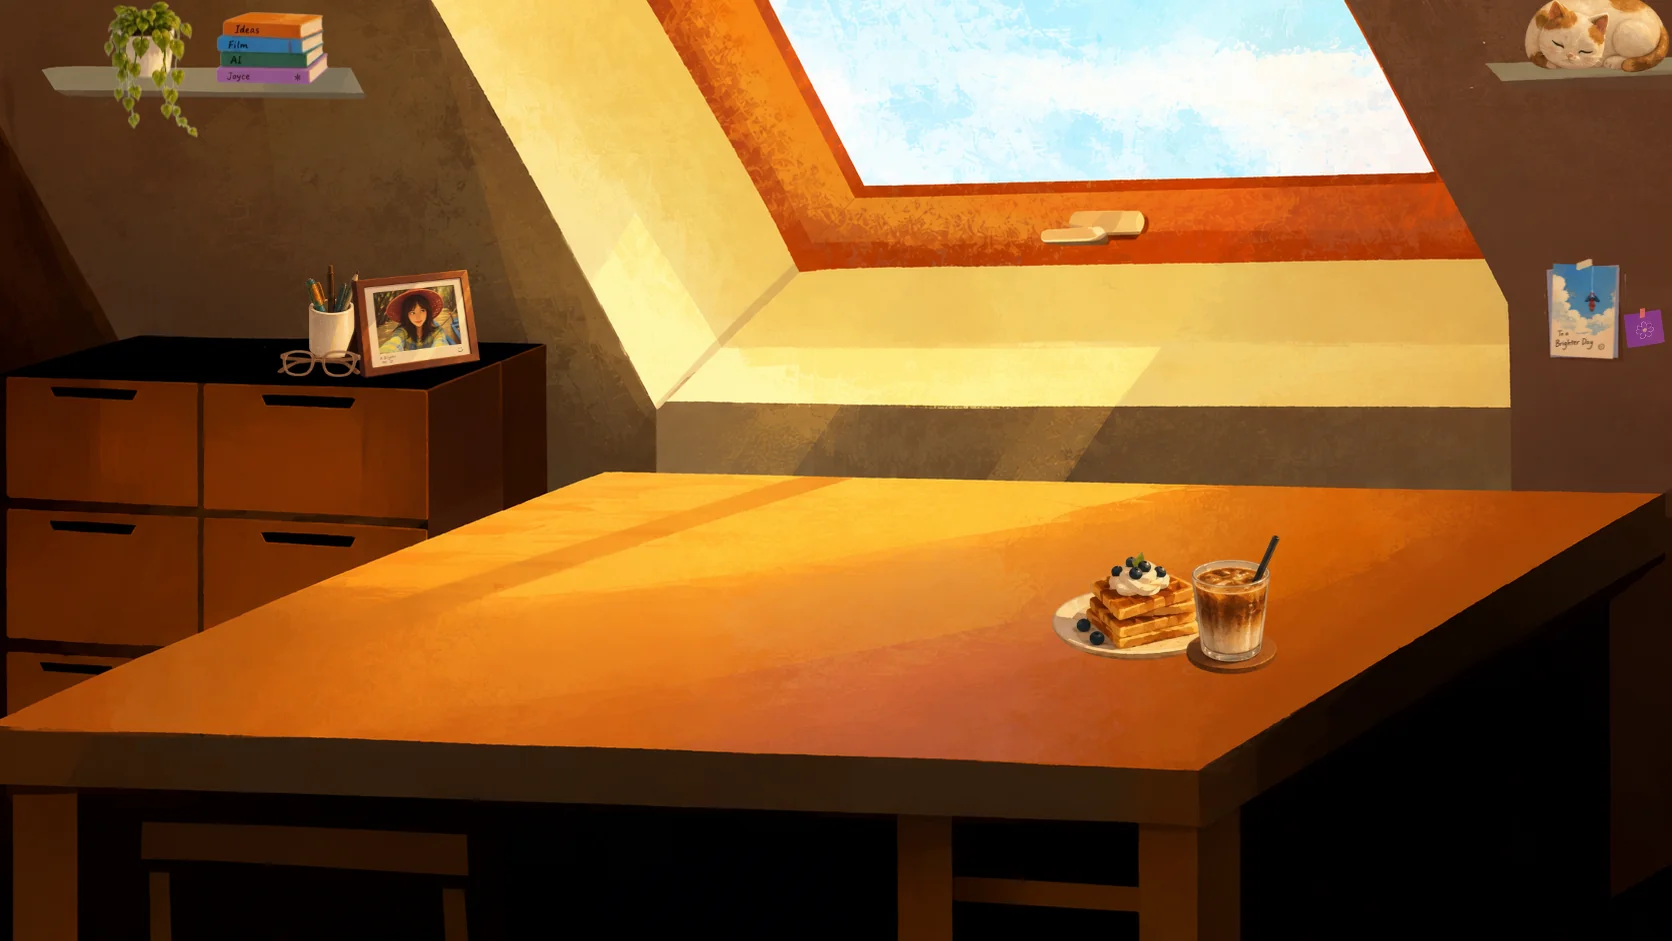
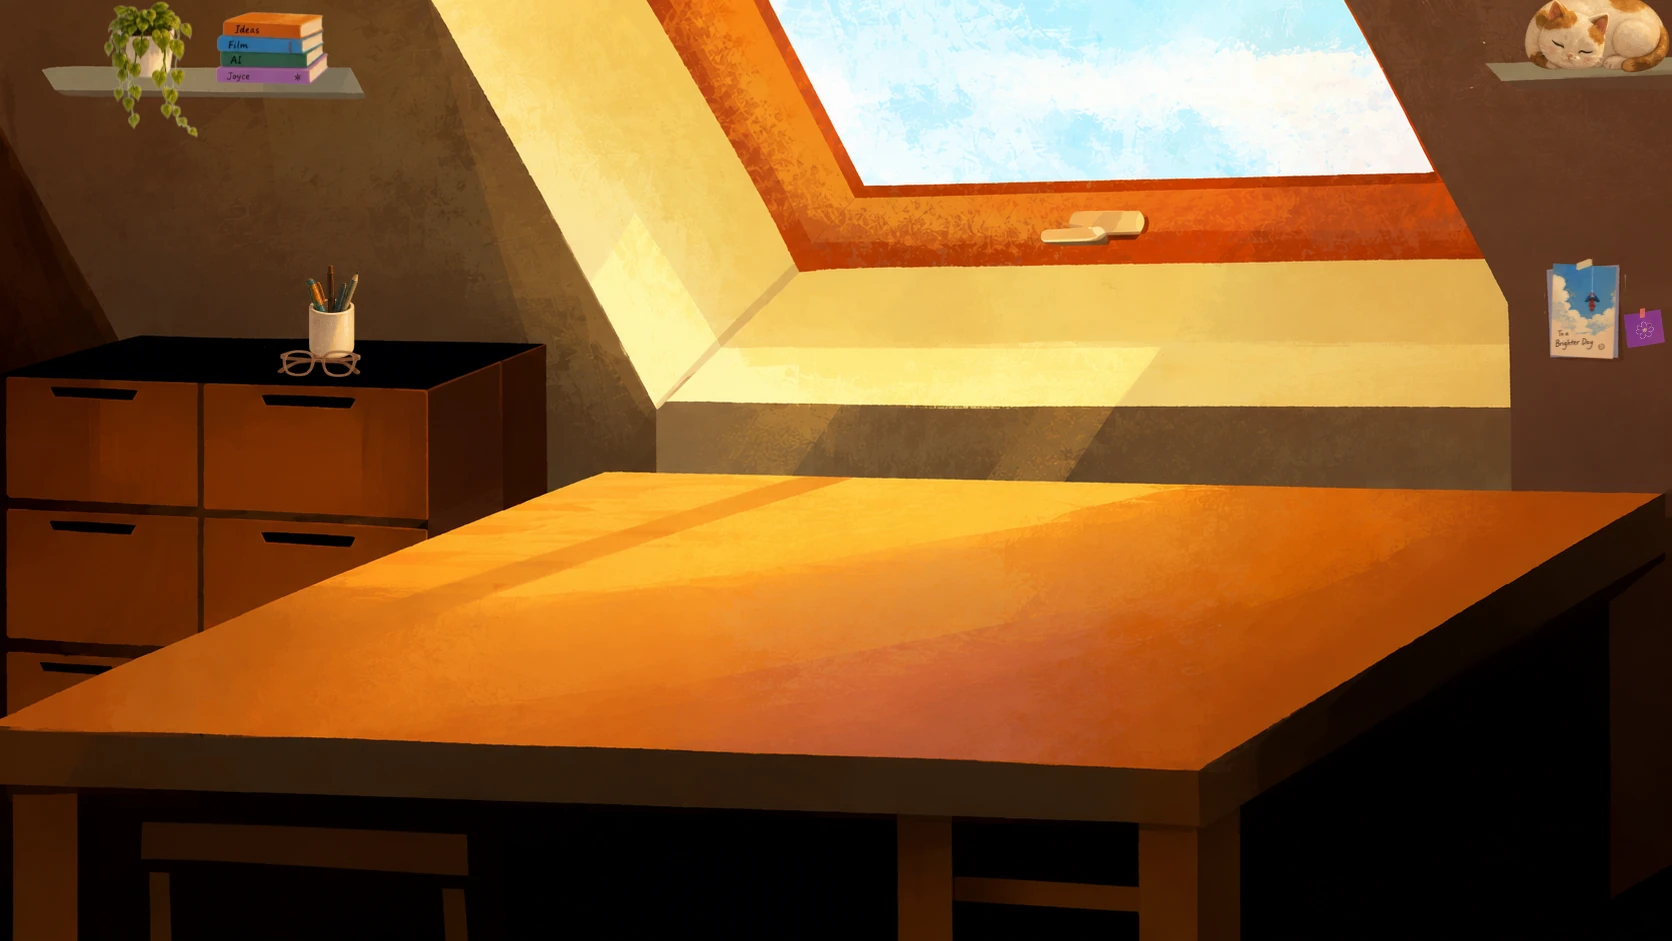
Polish portfolio visuals and interactions

Changed region(s): [[0.622, 0.5855, 0.7775, 0.7396], [0.1866, 0.2774, 0.311, 0.4006]]

diff --git a/src/components/portfolio/Portfolio.js b/src/components/portfolio/Portfolio.js
@@ -19,6 +19,10 @@ import {
     turntableBase,
     turntableVinyl,
     turntableTonearm,
+    photoFrame,
+    photoFrameOpen,
+    waffle,
+    icedCoffee,
 } from './worksSceneAssets';
 import sunflowerMusic from '../../assets/sounds/Sunflower.mp3';
 import deskLampSwitchSound from '../../assets/sounds/desk-lamp-switch.mp3';
@@ -44,6 +48,12 @@ const STAR_POINTS = [
     {left: '91%', top: '36%', size: '0.3%', duration: '2.6s', delay: '-1.5s', opacity: 0.88},
 ];
 
+const SCENE_PROPS = [
+    {name: 'photo-frame', source: photoFrame, left: 21.59, top: 29, width: 7.3},
+    {name: 'waffle', source: waffle, left: 61.96, top: 60.32, width: 8},
+    {name: 'iced-coffee', source: icedCoffee, left: 68.02, top: 57.39, width: 6.6},
+];
+
 export default function Portfolio({innerRef}) {
     const navigate = useNavigate();
     const [isProductOpen, setIsProductOpen] = useState(false);
@@ -56,6 +66,7 @@ export default function Portfolio({innerRef}) {
     const [isTurntableLocked, setIsTurntableLocked] = useState(false);
     const [isLampOn, setIsLampOn] = useState(false);
     const [isAboutFolderPressed, setIsAboutFolderPressed] = useState(false);
+    const [isPhotoFrameOpen, setIsPhotoFrameOpen] = useState(false);
     const [isSceneReady, setIsSceneReady] = useState(false);
     const lampAudioRef = useRef(null);
     const musicAudioRef = useRef(null);
@@ -169,6 +180,16 @@ export default function Portfolio({innerRef}) {
     }, []);
 
     useEffect(() => {
+        if (!isPhotoFrameOpen) return undefined;
+
+        const handleKeyDown = (event) => {
+            if (event.key === 'Escape') setIsPhotoFrameOpen(false);
+        };
+        window.addEventListener('keydown', handleKeyDown);
+        return () => window.removeEventListener('keydown', handleKeyDown);
+    }, [isPhotoFrameOpen]);
+
+    useEffect(() => {
         let isMounted = true;
         preloadVisualModuleWithTimeout('works', 4500).then(() => {
             if (isMounted) setIsSceneReady(true);
@@ -203,6 +224,34 @@ export default function Portfolio({innerRef}) {
                     aria-hidden={'true'}
                 />
                 <div className={Style.stageForeground}>
+                {SCENE_PROPS.map(({name, source, left, top, width}) => {
+                    const style = {left: `${left}%`, top: `${top}%`, width: `${width}%`};
+                    if (name === 'photo-frame') {
+                        return (
+                            <button
+                                key={name}
+                                type={'button'}
+                                className={`${Style.sceneProp} ${Style.photoFrameTrigger}`}
+                                style={style}
+                                aria-label={'Open photo'}
+                                onClick={() => openModule('photoFrameOpen', () => setIsPhotoFrameOpen(true))}
+                            >
+                                <img className={Style.scenePropImage} src={source} alt={''} draggable={false} />
+                            </button>
+                        );
+                    }
+                    return (
+                        <img
+                            key={name}
+                            className={Style.sceneProp}
+                            src={source}
+                            alt={''}
+                            aria-hidden={'true'}
+                            draggable={false}
+                            style={style}
+                        />
+                    );
+                })}
                 <div className={Style.skylightEffects} aria-hidden={'true'}>
                     <div className={`${Style.starLayer} ${isLampOn ? Style.skyEffectVisible : ''}`}>
                         {STAR_POINTS.map((star, index) => (
@@ -312,6 +361,20 @@ export default function Portfolio({innerRef}) {
                 </div>
               </Box>
             </Box>
+            {isPhotoFrameOpen && (
+                <div
+                    className={Style.photoOverlay}
+                    role={'presentation'}
+                    onClick={() => setIsPhotoFrameOpen(false)}
+                >
+                    <img
+                        className={Style.photoExpanded}
+                        src={photoFrameOpen}
+                        alt={'Expanded framed photo'}
+                        onClick={(event) => event.stopPropagation()}
+                    />
+                </div>
+            )}
             <audio ref={musicAudioRef} preload="none" loop />
             <audio ref={lampAudioRef} src={deskLampSwitchSound} preload="auto" />
             <ProductNotebook isOpen={isProductOpen} onClose={() => setIsProductOpen(false)} />

diff --git a/src/components/portfolio/Portfolio.module.scss b/src/components/portfolio/Portfolio.module.scss
@@ -32,6 +32,70 @@
   pointer-events: auto;
 }
 
+.sceneProp {
+  position: absolute;
+  z-index: 2;
+  display: block;
+  height: auto;
+  max-width: none;
+  pointer-events: none;
+  user-select: none;
+}
+
+.photoFrameTrigger {
+  margin: 0;
+  padding: 0;
+  border: 0;
+  background: transparent;
+  cursor: pointer;
+  pointer-events: auto;
+}
+
+.scenePropImage {
+  display: block;
+  width: 100%;
+  height: auto;
+  pointer-events: none;
+  user-select: none;
+}
+
+.photoOverlay {
+  position: fixed;
+  z-index: 19;
+  inset: 0;
+  display: flex;
+  align-items: center;
+  justify-content: center;
+  background: rgba(0, 0, 0, 0.24);
+  animation: photoOverlayAppear 220ms ease both;
+}
+
+.photoExpanded {
+  display: block;
+  width: auto;
+  height: auto;
+  max-width: min(45.5vw, 624px);
+  max-height: 48.75vh;
+  object-fit: contain;
+  animation: photoExpand 260ms cubic-bezier(0.22, 1, 0.36, 1) both;
+}
+
+@keyframes photoOverlayAppear {
+  from { opacity: 0; }
+  to { opacity: 1; }
+}
+
+@keyframes photoExpand {
+  from {
+    opacity: 0;
+    transform: scale(0.96);
+  }
+  to {
+    opacity: 1;
+    transform: scale(1);
+  }
+}
+
 .stage {
   position: absolute;
   top: 0;

diff --git a/src/components/portfolio/worksSceneAssets.js b/src/components/portfolio/worksSceneAssets.js
@@ -10,6 +10,10 @@ import lampSwitch from '../../assets/works/lamp-switch.png';
 import turntableBase from '../../assets/works/turntable/turntable-base.png';
 import turntableVinyl from '../../assets/works/turntable/turntable-vinyl.png';
 import turntableTonearm from '../../assets/works/turntable/turntable-tonearm.png';
+import photoFrame from '../../assets/works/photo-frame.png';
+import photoFrameOpen from '../../assets/works/photo-frame-open.png';
+import waffle from '../../assets/works/waffle.png';
+import icedCoffee from '../../assets/works/iced-coffee.png';
 
 export {
   worksDay,
@@ -24,6 +28,10 @@ export {
   turntableBase,
   turntableVinyl,
   turntableTonearm,
+  photoFrame,
+  photoFrameOpen,
+  waffle,
+  icedCoffee,
 };
 
 export const WORKS_SCENE_IMAGES = [
@@ -39,4 +47,7 @@ export const WORKS_SCENE_IMAGES = [
   turntableBase,
   turntableVinyl,
   turntableTonearm,
+  photoFrame,
+  waffle,
+  icedCoffee,
 ];

diff --git a/src/utils/visualAssetManifest.js b/src/utils/visualAssetManifest.js
@@ -1,4 +1,4 @@
-import {WORKS_SCENE_IMAGES} from '../components/portfolio/worksSceneAssets';
+import {photoFrameOpen, WORKS_SCENE_IMAGES} from '../components/portfolio/worksSceneAssets';
 
 import productNotebookOpen from '../assets/works/product/product-notebook-open.png';
 
@@ -46,6 +46,7 @@ import dandelion05 from '../assets/contact/dandelion-05.png';
 
 export const VISUAL_ASSET_MANIFEST = {
   works: WORKS_SCENE_IMAGES,
+  photoFrameOpen: [photoFrameOpen],
   product: [productNotebookOpen],
   content: [facai, joyceAi, liubai],
   ai: [aiVideo01, aiVideo02, aiVideo03, aiVideo04, aiVideo05],
@@ -83,4 +84,4 @@ export const VISUAL_ASSET_MANIFEST = {
   ],
 };
 
-export const IDLE_PRELOAD_ORDER = ['aboutScene', 'aboutOpenFolder', 'product', 'content', 'ai', 'film', 'contact'];
+export const IDLE_PRELOAD_ORDER = ['photoFrameOpen', 'aboutScene', 'aboutOpenFolder', 'product', 'content', 'ai', 'film', 'contact'];

diff --git a/src/components/home/Home.module.scss b/src/components/home/Home.module.scss
@@ -1,3 +1,5 @@
+@import url('https://api.fontshare.com/v2/css?f[]=neco@400&display=swap');
+
 .homeScene {
   position: relative;
   width: 100%;
@@ -258,6 +260,7 @@
   outline: none;
   animation: houseHintBreath 3.3s ease-in-out infinite;
   transition: opacity 200ms ease;
+  font-family: 'Neco', 'Roboto', Helvetica, sans-serif;
 }
 
 .houseLayer:hover .houseImage,
@@ -460,6 +463,7 @@
   width: 496px;
   color: #263944;
   text-align: left;
+  font-family: 'Neco', 'Roboto', Helvetica, sans-serif;
 }
 
 .heroExiting {

diff --git a/src/App.js b/src/App.js
@@ -5,9 +5,13 @@ import OrientationHint from "./components/OrientationHint";
 import {BrowserRouter} from "react-router-dom";
 
 function App() {
+   const routerBasename = process.env.NODE_ENV === 'production'
+      ? process.env.PUBLIC_URL
+      : '/';
+
    return (
       <div>
-         <BrowserRouter basename={process.env.PUBLIC_URL}>
+         <BrowserRouter basename={routerBasename}>
             <BaseLayout/>
          </BrowserRouter>
          <OrientationHint/>
